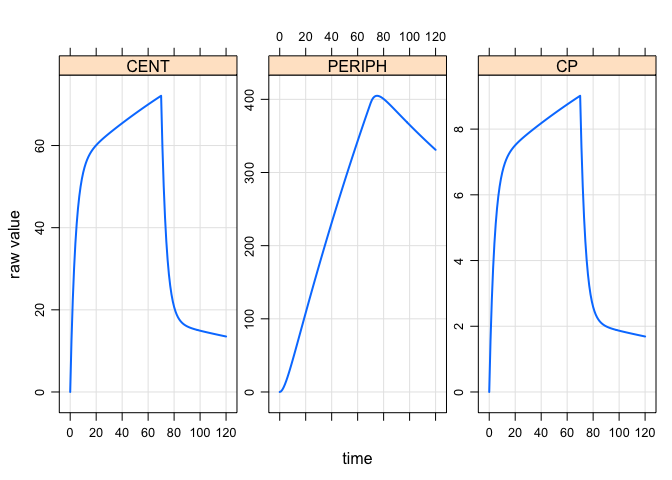
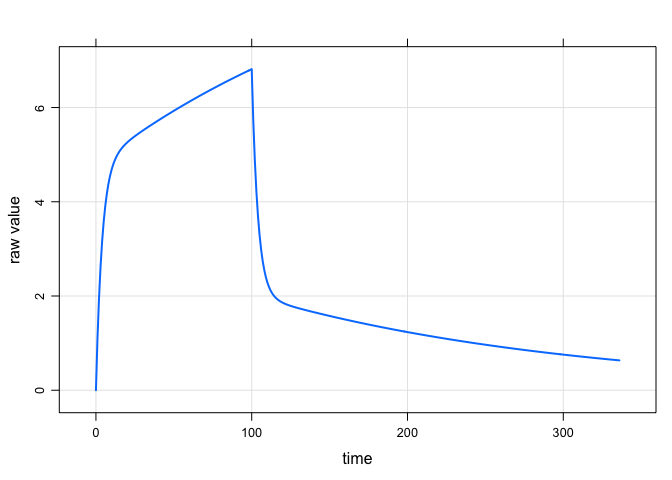
extending README

diff --git a/README.md b/README.md
@@ -145,8 +145,8 @@ mod %>%
 ![](img/README-unnamed-chunk-4-1.png)<!-- -->
 
 ``` r
-mod <- modmrg::pkmodel(ncmt=2) %>% param(Q=1, V2=8)
-mod %>% ev(amt=1000,rate=1000/70) %>% mrgsim(end=120) %>% plot
+mod <- modmrg::pkmodel(ncmt=2) %>% param(Q=1, V2=8) %>% Req(CP)
+mod %>% ev(amt=1000,rate=1000/100) %>% mrgsim(end=336) %>% plot
 ```
 
 ![](img/README-unnamed-chunk-5-1.png)<!-- -->
